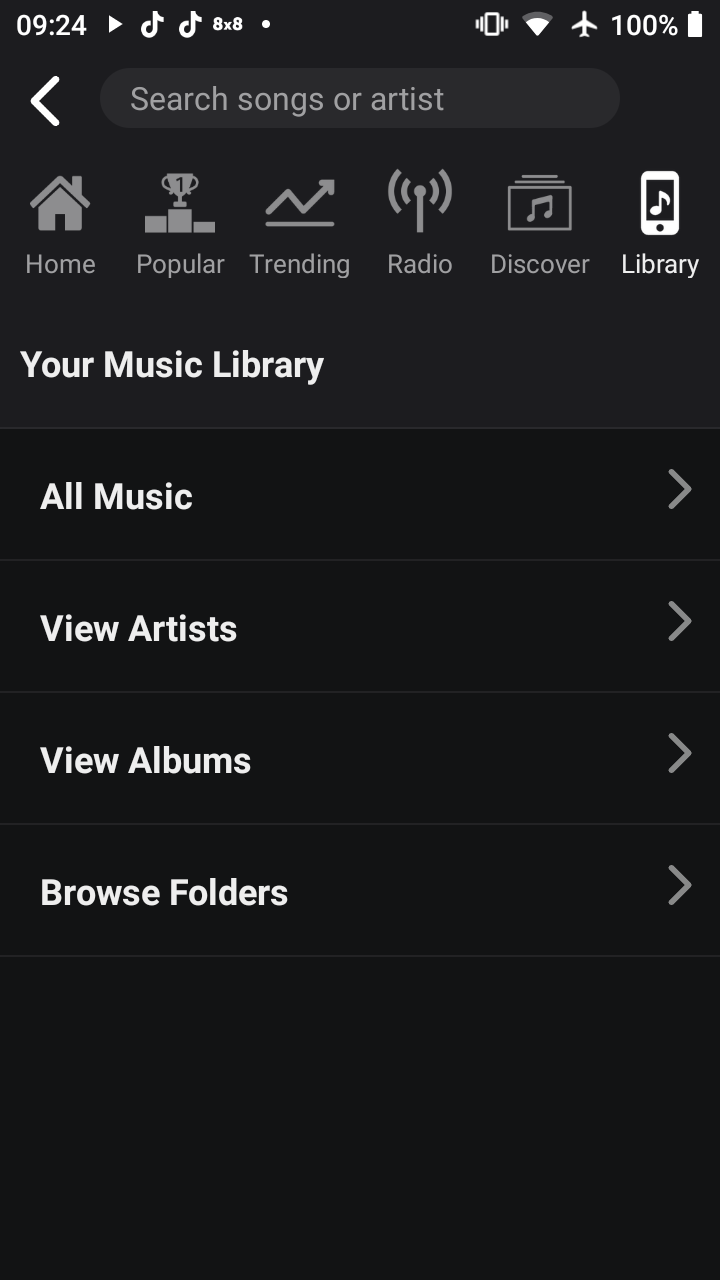
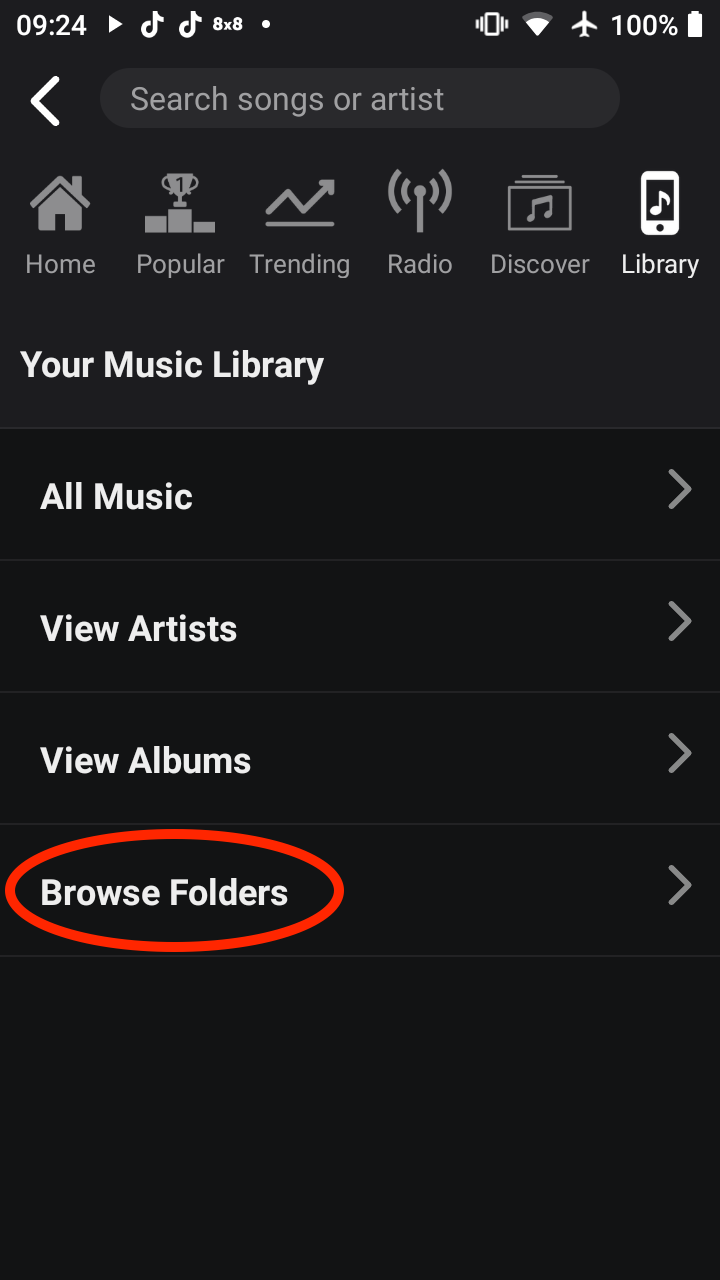
giveaway + folders feature

Changed region(s): [[0.0, 0.625, 0.4889, 0.75]]

diff --git a/src/giveaway.html b/src/giveaway.html
@@ -90,12 +90,12 @@
         <div class="row">
           <div class="span12 text-center">
             <h1>Promo-codes Giveaway</h1>
-            <h3>Participate and win a promo-code to remove all ads forever!</h3>
+            <h3>Participate and win a promo-code to remove ALL Ads from SplitCloud!</h3>
             <h1>Instructions</h1>
             <div id="playlist">
-                <div><span>1</span><div class='desc'><h4><b>Follow</b> <i>@splitcloudapp</i> on Instagram</h4></div></div>
-                <div><span>2</span><div class='desc'><h4><b>Like</b> our latest post</h4></div></div>
-                <div><span>3</span><div class='desc'><h4><b>Comment</b> and tag your friends who should know about SplitCloud</h4></div></div>
+                <div><span>1</span><div class='desc'><h4><b>Follow</b> <i>@splitcloudapp</i> on Instagram or TikTok</h4></div></div>
+                <div><span>2</span><div class='desc'><h4><b>Like</b>the giveaway post</h4></div></div>
+                <div><span>3</span><div class='desc'><h4><b>Tag</b>your friends in the comments</h4></div></div>
                 <div><span>🎉</span><div class='desc'><h4><b>10 winners will be chosen randomly at the end of the promotion!</b></h4></div></div>
             </div>
             <div class="cta-button" >Let's Go!</div>
@@ -104,9 +104,9 @@
         <div class="row">
           <div class="span10">
           <h3>Terms & Conditions</h3>
-          <p>The giveaway will end on March 16 2020.</p> 
+          <p>The giveaway will end on August 31 2020.</p> 
           <p>
-            10 Winners will be selected at random and contacted privately via direct message
+            10 Winners will be selected at random and contacted privately via direct message.
           </p>
           <p>
             Per Instagram rules, this promotion is in no way sponsored, administered, or associated with Instagram, Inc. By entering, entrants confirm that they are 13+ years of age, release Instagram of responsibility, and agree to Instagram’s terms of use.

diff --git a/src/folders_feature.html b/src/folders_feature.html
@@ -76,7 +76,7 @@
             <h1>Introducing Folders!</h1>
             <h3>You can now browse you local music by folders, this is how:</h3>
             <div id="playlist">
-                <div><span>1</span><div class='desc'><h4>Go to <b>Library</b> tab</h4></div></div>
+                <div><span>1</span><div class='desc'><h4>Go to <b>Library</b> tab</h4>and tab <b>Browse Folders</b></div></div>
                 <img src="./img/folders/step1.png" />
                 <div><span>2</span><div class='desc'><h4><b>Browse</b> your folders:</h4></div></div>
                 <img src="./img/folders/step2.png" />
